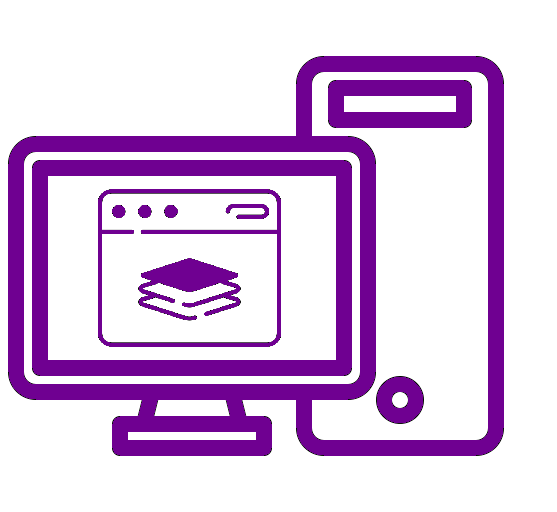
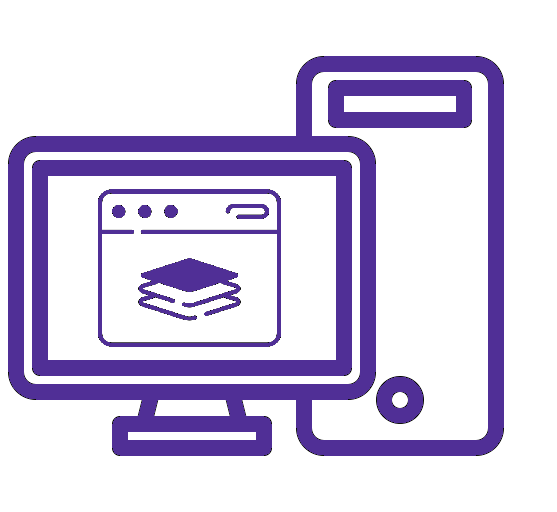
enviar

Changed region(s): [[0.0, 0.0938, 0.9156, 0.9062], [0.2442, 0.5, 0.4273, 0.625]]

diff --git a/css/style.css b/css/style.css
@@ -6,7 +6,7 @@
     --primary-color: black;
     --secondary-color: #2C1E4A;
     --text-color:white;
-    --color-line-qualification:#6f0091;
+    --color-line-qualification:#8850FF;
     --footer:#15001b;
     --bg: linear-gradient(to right, #211738, rgb(0, 0, 0));
 
@@ -149,7 +149,7 @@ section {
 }
 .word-highlighting{
     font-size:26px;
-    color: #8850FF;;
+    color: #8850FF;
 }
 
 .title-section-2{
@@ -218,7 +218,7 @@ section {
 .service-1,.service-2,.service-3{
   width: 200px;
   height: 200px;
-  background-color: #6f0091;
+  background-color:var(--color-line-qualification);
   margin: 10px;
 }
 
